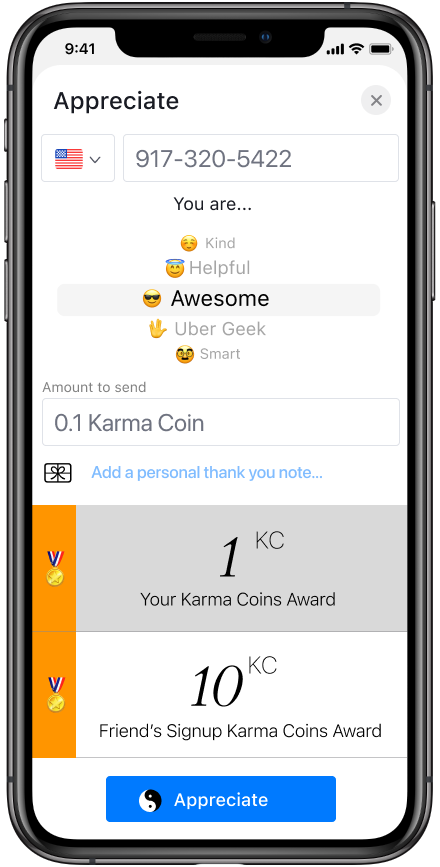
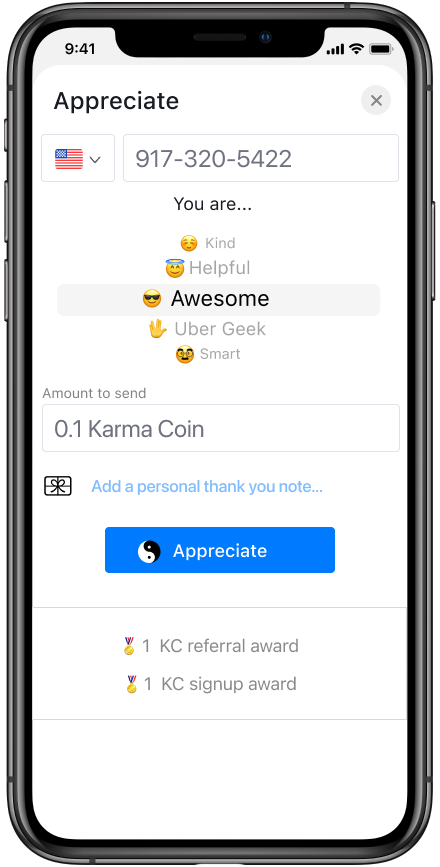
Update screens and tokenomics

diff --git a/src/pages/index.js b/src/pages/index.js
@@ -25,18 +25,21 @@ function Home() {
           <div className={styles.buttons}>
             <Link className={clsx(
                     'button button--outline button--secondary button--lg'
-                )}
+                )} target='_blank'
                 to='https://www.figma.com/proto/XU3xigkjjA0m9qEkkulmWm/Karma Coin?page-id=0%3A1&node-id=552%3A686&viewport=-575%2C-2195%2C0.49&scaling=scale-down&starting-point-node-id=552%3A686&hide-ui=1'>
               Launch Demo
+            </Link>
+            <div className={clsx(styles.smallSpacer)}/>
+            <Link className={clsx(
+                'button button--outline button--secondary button--lg'
+            )} target='_blank'
+                  to='https://getwaitlist.com/waitlist/4912'>
+              Join Waiting List
             </Link>
           </div>
         </div>
         <div className={clsx(styles.smallIconSection)}>
           <img className={clsx(styles.karmaIcon)} src={'logo_400x400.png'}/>
-        </div>
-          <p className={clsx(styles.titleBanner)}>Karma Coin for Users</p>
-          <div className={clsx(styles.subtitleBanner)}>Karma Coin is the universal token of appreciation. We are revolutionizing the way we show appreciation to each other by creating a global, universally accepted token of appreciation that can be used by anyone, anywhere. Karma Coin builds on the good nature of humans rather than on greed and speculation.</div>
-          <div className={clsx(styles.featureContainer)}>
         </div>
         {features && features.length > 0 && (
           <section className={styles.features}>

diff --git a/src/pages/users.js b/src/pages/users.js
@@ -1,0 +1,25 @@
+import React from 'react';
+import Layout from '@theme/Layout';
+import clsx from 'clsx';
+import styles from './styles.module.css';
+import Link from '@docusaurus/Link';
+import useDocusaurusContext from '@docusaurus/useDocusaurusContext';
+
+export default function UsersPage() {
+    const {siteConfig} = useDocusaurusContext();
+    return (
+        <Layout
+            title={`Welcome to Karma Coin`}
+            description="About the Karma Coin App <head />">
+            <main>
+                <h1 className={clsx('text--center', styles.titleBanner, 'padding--sm')}>
+                    Welcome to Karma Coin
+                </h1>
+                <h2 className={clsx('text--center', styles.subtitleBanner, 'padding--sm')}>
+                    Coming soon...
+                </h2>
+            </main>
+        </Layout>
+    );
+}
+

diff --git a/docusaurus.config.js b/docusaurus.config.js
@@ -40,12 +40,6 @@ module.exports = {
         {
           position: 'left',
           className: 'header-link',
-          label: 'For Users',
-          to: '/jobs',
-        },
-        {
-          position: 'left',
-          className: 'header-link',
           label: 'For Validators',
           to: '/validators',
         },

diff --git a/src/pages/styles.module.css b/src/pages/styles.module.css
@@ -87,6 +87,10 @@
   margin-bottom: 24pt;
 }
 
+.smallSpacer {
+    width: 42px;
+}
+
 .mainTextContainer {
     display: flex;
     flex-direction: row;

diff --git a/versioned_docs/version-0.1.0/design/tokenomics.md b/versioned_docs/version-0.1.0/design/tokenomics.md
@@ -7,29 +7,44 @@ slug: /tokenomics
 
 # Tokenomics
 
-## Coin types
-- `KCents` - basic accounting unit.
-- `KCoins ($KC)` - The core Karma Coin cryptocurrency. One KCoin equals one million KCents.
-- `KStable $KST` - The Karma Coin stable-coin cryptocurrency. This stable coin will be issued post-genesis on the Karma Coin blockchain.
+> This document is a work in progress. It is not final and is subject to change.
+
+## Coin Units
+- `KCents` - The basic Karma Coin blockchain accounting unit.
+- `KCoins ($KC)` - The Karma Coin cryptocurrency. One KC equals one million KCents.
 ---
 
-## Supply Model
-The coin issuance and supply are designed to rewards both users and validators and to encourage early adoption by both of these stakeholders, while also providing some coins to the Karma Coin dev company for the development and the maintenance of the product and the tech stack. 
+## Coin Issuance Model
+The coin issuance and supply are designed to reward both users and validators and to encourage early adoption by both of these stakeholders, while also providing some coins to the Karma Coin dev company for the development and the maintenance of the product and the tech stack. 
+
+The coin issued by the Karma Coin blockchain includes three main types of issuance:
+1. Validator awards.
+2. Karma mining issuance.
+3. Genesis minting.
+
+We call the logic that determines minting 'the protocol' in this document.
 
 This issuance model is designed so the vast majority of the coins are issued in the first 20 years of the project while still rewarding validators and new users indefinitely. So technically Karma Coin supply is not capped but the amounts issued after the first 20 years from genesis are negligible compared to the first 20 years issuance.
 
-After the first 20 years from genesis the coin supply will be 2.5 billion KCoins (2.5 trillion KCents). We refer this is amount as 'the supply' in this document. 
+1.875B KCs (75% of the supply) are minted by the protocol over 20 years from genesis.
+
+After the first 20 years from genesis the coin supply will be 2.5 billion KCs (2.5 trillion KCents). We refer to this amount as 'the supply' in this document. 
 
 In the following years, after the first 20 years, the only coin issuance by the protocol is validator rewards and signup rewards. These are issued indefinitely into the future. The validators rewards decay exponentially so only x are minted in year 20 to 40 from genesis. Signup rewards amount to up to 100 million additional protocol minted KCes for each 10 years period after the initial 20 years.
 
-## Pre-minting Allocations
-- 1.875B KCs (75% of the supply) are minted by the protocol over 20 years from genesis.
-- 625M KCs (25% of the supply) are minted on genesis.
-- 375M KCs (15% of the supply) go to the Karma Coin treasury and are used to build the platform.
-- 250M KCs (10% of the supply) are allocated to be provided to the Karma Coin blockchain validators as their initial stake in the protocol.
+--- 
+
+## Genesis Minting
+625M KCs (25% of the supply) are minted by the protocol on genesis.
+- 375M KCs (15% of the supply) are issued to the Karma Coin treasury and are used to build the platform.
+- 250M KCs (10% of the supply) are issued to the genesis Karma Coin blockchain validators as their initial stake in the protocol.
+
+---
 
 ## Validator Awards
-- 500M KCs (20% of the supply) are allocated by the protocol to rewards the Karma Coin blockchain validators for providing security to the network for the first 20 years from genesis. These are minting by the protocol using an exponential decay function which rewards validators who starts validating early while still rewarding new validators that join the system over time. (First month reward 10M KCs, Lambda = 0.020036). The issuance continues indefinitely using the same decay function.
+500M KCs (20% of the supply) are allocated by the protocol to rewards the Karma Coin blockchain validators for providing security to the network for the first 20 years from genesis. These are minting by the protocol using a standard exponential decay function which rewards validators who starts validating early while still rewarding new validators that join the system over time. (First month reward 10M KCs, Lambda = 0.020036). The issuance continues indefinitely using the same decay function.
+
+---
 
 ## Karma Mining
 The Karma Coin protocol tokenomics are designed to encourage usage and growth in the early days of the network with the goal of destabilising Karma Coin as a global means of appreciation, tipping and payments. 
@@ -37,7 +52,7 @@ The Karma Coin protocol tokenomics are designed to encourage usage and growth in
 1.375B KCs (55% of the supply) are distributed by the protocol and awarded to users to encourage sign-ups, usage as means of payment and appreciation. We call this Karma mining. Karma Mining includes the following coin issuance:
 
 ### Signup Rewards
-Signup rewards are designed to solve the cryptocurrency on ramp problem. Upon sign-up, the protocol mints a 1 KCoins reward to each new user with a verified mobile phone number. 
+Signup rewards are designed to solve the cryptocurrency on ramp problem. Upon sign-up, the protocol mints a 1 KC reward to each new user with a verified mobile phone number. 
 - A total of 300 million KCs is allocated by the protocol for signup rewards.
 - The first 10 million users get 10 KCs on signup.
 - The next 200 millions user get 1 KC on signup. 
@@ -50,26 +65,22 @@ Signup rewards are designed to solve the cryptocurrency on ramp problem. Upon si
 - The next 200 millions referees get a 1 KC reward when their referral signs up.
 
 ### Karma Rewards
-- Each month, the protocol mints 10 KCoins to the top 1,000 users with the highest Karma coins that didn't get this award yet. 
-- Up to 300M KCoins are allocated for this reward. When these have been allocated the protocol stops rewarding users with top karma.
+- Each month, the protocol mints 10 KCs to the top 1,000 users with the highest Karma points who didn't get this award yet. 
+- Up to 300M KCs are allocated for this reward. When these have been allocated the protocol stops rewarding users with top karma.
 
 ### Causes Rewards
 - 225 millions KCs are allocated by the protocol to reward causes submitted by users.
-- Each month, for at the first 50 months since genesis, 10,000 KCoins are distributed by the protocol to up to 20 causes that got funding in that calendar month via appreciations that didn't get funding in the previous month. The causes are randomly selected by the protocol. Getting a cause to become eligible requires cause registration and verification as a real non-profit with an established reputation.
+- Each month, for at the first 50 months since genesis, 10,000 KCs are distributed by the protocol to up to 20 causes that got funding in that calendar month via appreciations that didn't get funding in the previous month. The causes are randomly selected by the protocol. Getting a cause to become eligible requires cause registration and verification as a real non-profit with an established reputation.
 
-#### Transaction Fees Subsidies
+### Transaction Fees Subsidies
 The protocol allocates up 250M KCs as transaction fees subsidies. Fees susedies are minted by the protocol for appreciation and payment transactions and are given to the Karma Coin blockchain block producers. When a subsidy is applied, the user who submitted the transaction doesn't pay the transaction fee from his own balance.
 - Only the first 10 transactions per user are eligible for transaction fees subsidies to mitigate spam attacks.
 - These intentional design decision is designed to encourage sign-ups, appreciation, and coin usage in the real-world as means of tipping, appreciation and payment. 
-- After the 250M KCoins have been minted for fees subsidies, the protocol keeps minting 1 KCent for each transaction to subsidize the transaction fees of signup transactions. This is required to seamlessly onboard new users. This amounts to issuance of 1,000 KCs for 1 billion new users, so it doesn't change the overall supply significantly in the long term.
+- After the 250M KCs have been minted for fees subsidies, the protocol keeps minting 1 KCent for each transaction to subsidize the transaction fees of signup transactions. This is required to seamlessly onboard new users. This amounts to issuance of 1 KCs for 1 million new users, so it doesn't change the overall supply significantly in the long term.
 ---
 
-## Validators Deposit
-Karma Coin uses a dPOS consensus algorithm. Validators need to acquire KCoins from the Karma Coin foundation (or from any other KCoins cold holder) in order to obtain the coins deposit requirement. The minimum validator deposit amount is 100,000 KCs. This is designed in a way that is low enough to allow for non-rich validators and high-enough to ensure skin-in-the-game from validators and stake that has non-negligible fiat value. The Karma Coin foundation will conduct coin auctions for validators to enable them to purchase coins in an open market context where the coin price is discovered by the market.
-
-
-## Summary of protocol minting
-A total of 1.875B KCoins are minted by the protocol for:
+## Protocol Minting Summary
+A total of 1.875B KCs are minted by the protocol over 20 years from genesis. Minting breakdown
 - 300M KCs - Signup rewards.
 - 300M KCs - Referral rewards.
 - 300M KCs - Karma rewards.
@@ -77,6 +88,12 @@ A total of 1.875B KCoins are minted by the protocol for:
 - 225M KCs - Causes rewards;
 - 500M KCs - Validators rewards.
 
+After 20 years, the protocol mints small amounts of additional KCs. 
+- Validators rewards - based on the same decay function used to calculate rewards in the first 20 years.
+- Signup rewards - 1000 KCents per signup. 100 KCs for 1 million new users
+- Signup transactions fee subsidy - 1 KCent per signup. 1 KC for 1 million signups.
+
+----
 
 :::info License
 Copyright (c) 2022 by the [Karma Coin Authors](https://github.com/avive/Karma Coin-docs). This work is licensed under the [Karma Coin License](/docs/license).

diff --git a/versioned_docs/version-0.1.0/design/blockchain_config.md b/versioned_docs/version-0.1.0/design/blockchain_config.md
@@ -29,7 +29,7 @@ The following fundamental product changes must pass an on-chain voting procedure
 The existential deposit in Karma Coin is 100 KCents. Existential deposit is the minimum balance which permits an account to execute transactions. Note that sign-up transactions fees come from either protocol subsidiaries or from the signup reward and when both of these are not applicable, the protocol mints 1KCent to pay the transaction fee of these transactions to allow new users to sign-up in the long run.
 
 ## Genesis Config
-Karma Coin genesis canonical config constants are defined in the following file: [genesis.rs](https://github.com/avive/Karma Coin/blob/main/crates/base/src/genesis_config_service.rs)
+Karma Coin genesis canonical config constants are defined in the following file: [genesis.rs](https://github.com/avive/KarmaCoin/blob/main/crates/base/src/genesis_config_service.rs)
 
 
 
